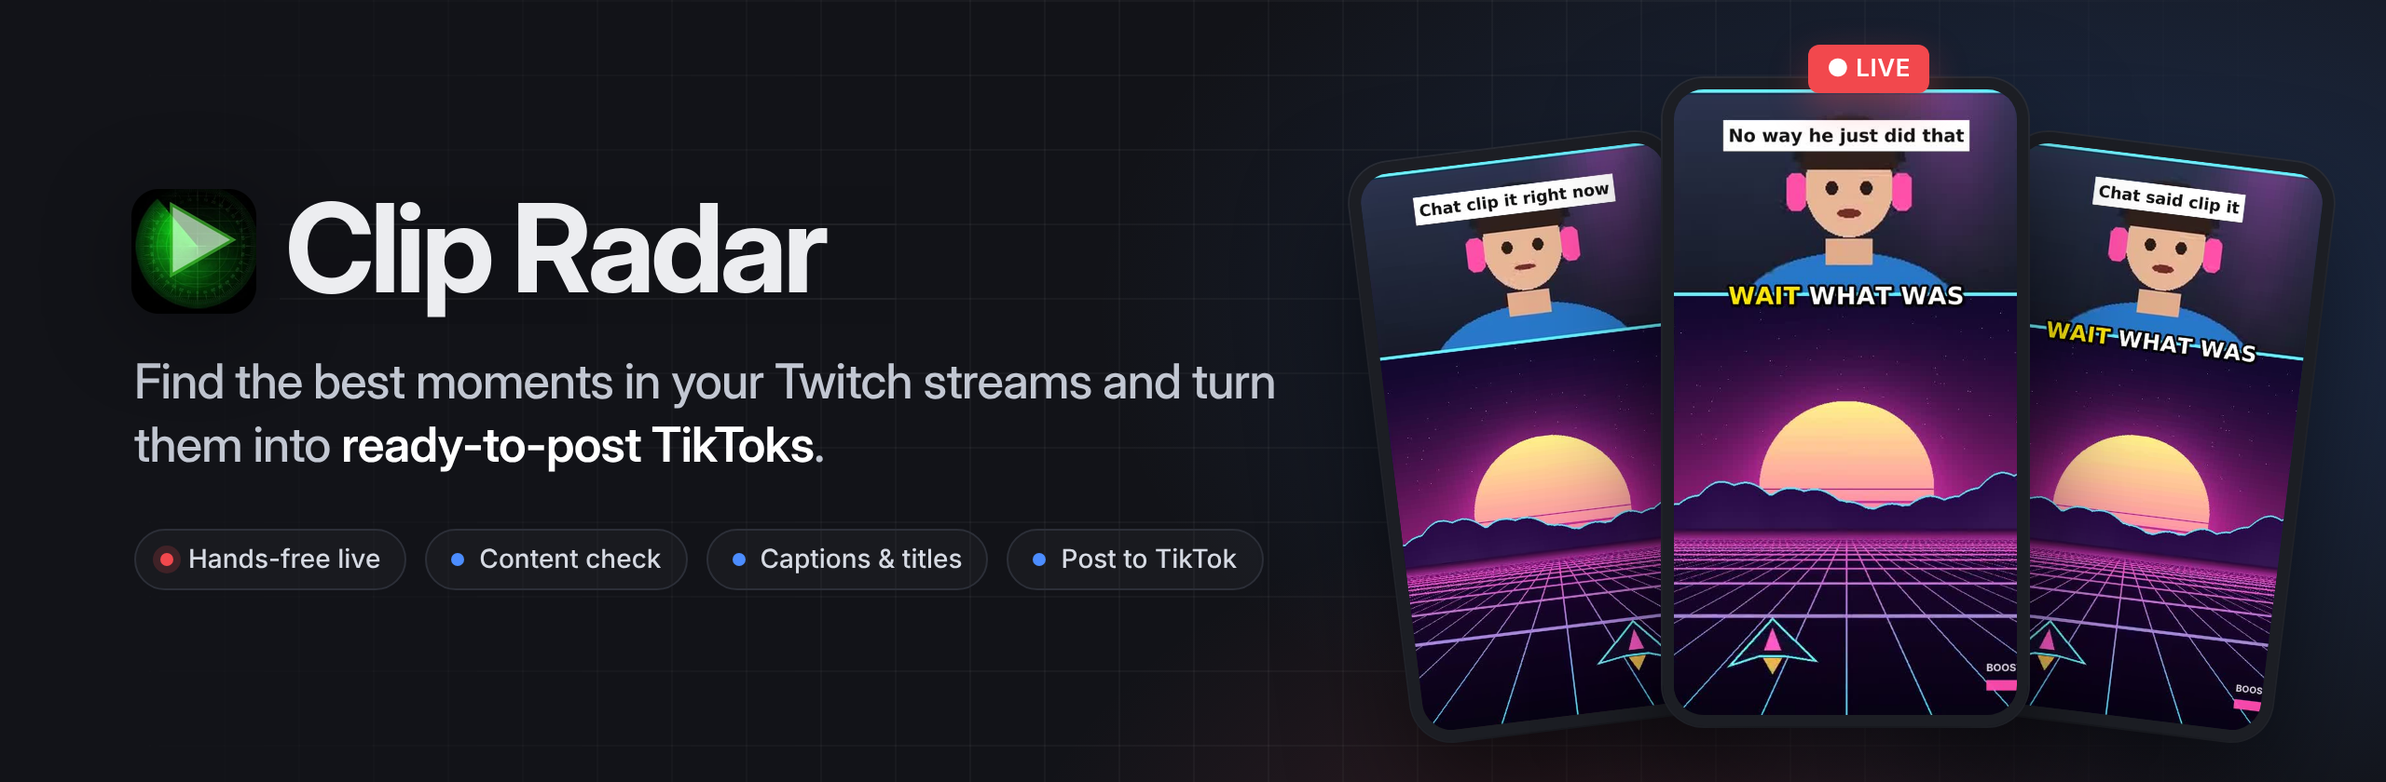
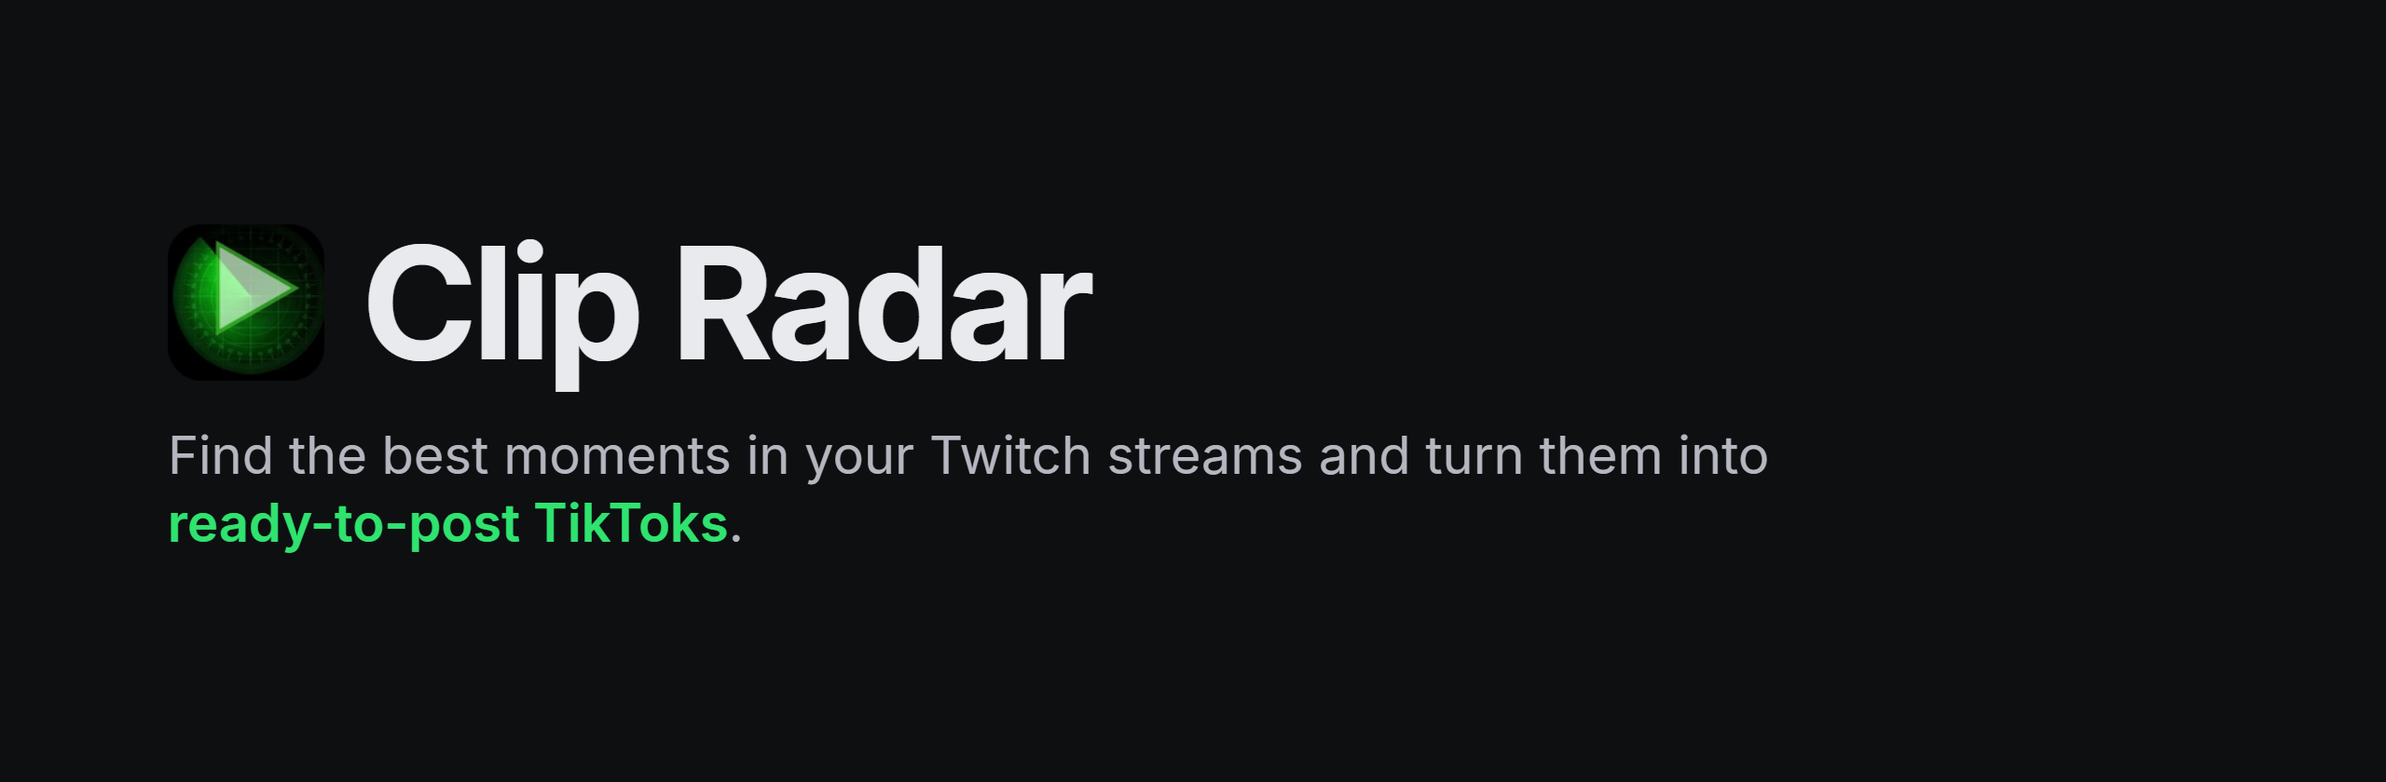
Clip Radar 4.42.1: design audit fixes
An antislop audit (anti-slop/audit-001-2026-11-04.md) of the React UI and README,
with all seven findings fixed:

- Content-check flags say Serious / Medium / Mild instead of showing severity
  only as a coloured stripe (the words Settings already used, now shared).
- Settings group headings and Clip ranking's labels are plain text, not
  spaced-out capitals or capsule chips.
- Small tags use the app's normal corner; only the live indicator and the
  menu counts stay round.
- README: a plain banner (logo, name, tagline on graphite) and a green
  version badge; an unused "preview" tag style removed.

diff --git a/web/src/styles/app.css b/web/src/styles/app.css
@@ -16,7 +16,6 @@ h1 { font-size: 22px; font-weight: 700; letter-spacing: -0.01em; margin: 0; }
 .app { display: grid; height: 100%; grid-template: "top top" auto "rail main" 1fr "bar bar" auto / 160px 1fr; }
 .top { grid-area: top; display: flex; align-items: center; gap: var(--gap); padding: 8px 14px; background: var(--bg0); border-bottom: 1px solid var(--line); }
 .brand { font-weight: 700; }
-.preview-tag { font-size: 11px; color: var(--on-accent); background: var(--accent); border-radius: 999px; padding: 1px 8px; font-weight: 600; }
 .top .btn { margin-left: auto; }
 .rail { grid-area: rail; display: flex; flex-direction: column; gap: 2px; padding: 8px; background: var(--bg0); border-right: 1px solid var(--line); }
 .rail a { color: var(--tx1); text-decoration: none; padding: 7px 10px; border-radius: var(--r); }
@@ -169,7 +168,7 @@ details.adv[open] summary { margin-bottom: 10px; }
 .set-nav { position: sticky; top: 0; display: flex; flex-direction: column; gap: 10px; max-height: calc(100 * var(--vh) - 120px); overflow-y: auto; padding: 0 2px 8px; }
 .set-nav h1 { margin: 0 0 2px; }
 .set-nav-group { display: flex; flex-direction: column; gap: 1px; }
-.set-nav-label, .set-group-label { color: var(--tx2); font-size: 11px; font-weight: 650; text-transform: uppercase; letter-spacing: .06em; }
+.set-nav-label, .set-group-label { color: var(--tx2); font-size: 12px; font-weight: 650; }   /* weight and grey carry the level, not capitals */
 .set-nav-label { padding: 4px 10px 2px; }
 .set-nav a { color: var(--tx1); text-decoration: none; padding: 5px 10px; border-radius: var(--r); border-left: 2px solid transparent; }
 .set-nav a:hover { background: var(--bg3); color: var(--tx0); }
@@ -184,7 +183,7 @@ details.adv[open] summary { margin-bottom: 10px; }
   .set-nav { position: static; max-height: none; overflow: visible; }
   .set-nav-group { flex-direction: row; flex-wrap: wrap; align-items: center; gap: 4px; }
   .set-nav-label { width: 100%; }
-  .set-nav a { border: 1px solid var(--line2); border-radius: 99px; padding: 4px 12px; }
+  .set-nav a { border: 1px solid var(--line2); padding: 4px 12px; }
   .set-nav a.on { border-color: var(--line2); background: none; color: var(--tx1); }   /* the menu scrolls away here: no "you are here" */
 }
 .settings h2 { font-size: 15px; font-weight: 650; margin: 0; }
@@ -212,7 +211,7 @@ details.adv[open] summary { margin-bottom: 10px; }
 .ver-list li { border-top: 1px solid var(--line); padding: 4px 0; }
 .ver-list summary { display: flex; gap: 8px; align-items: center; cursor: pointer; padding: 4px 0; }
 .ver-list li.cur summary b { color: var(--accent); }
-.ver-tag { font-size: 11px; padding: 1px 6px; border-radius: 999px; border: 1px solid var(--line2); color: var(--tx1); }
+.ver-tag { font-size: 11px; padding: 1px 6px; border-radius: 4px; border: 1px solid var(--line2); color: var(--tx1); }
 .ver-tag.cur, .ver-tag.new { border-color: var(--accent); color: var(--accent); }
 .btn.danger { background: transparent; border-color: var(--danger); color: var(--danger); }
 .btn.danger:hover { background: rgba(240, 90, 94, .12); }
@@ -243,7 +242,7 @@ p.notice { margin: 0; }
 .explain { margin-top: 10px; padding: 12px 14px; background: var(--bg1); border-radius: var(--r); display: flex; flex-direction: column; gap: 6px; }
 .explain h4 { margin: 6px 0 0; font-size: 12px; font-weight: 650; color: var(--tx0); display: flex; gap: 6px; align-items: center; }
 .explain ul { margin: 0; padding-left: 18px; color: var(--tx1); font-size: 12px; display: flex; flex-direction: column; gap: 2px; }
-.explain .tag { font-size: 10px; font-weight: 500; text-transform: uppercase; letter-spacing: .04em; color: var(--tx2); border: 1px solid var(--line2); border-radius: 999px; padding: 0 6px; }
+.explain .tag { font-size: 12px; font-weight: 400; color: var(--tx2); }   /* where the list comes from, said quietly after the heading */
 .ex-status { margin: 0; font-weight: 600; }
 .ex-status.tuned { color: var(--accent); }
 
@@ -312,7 +311,7 @@ p.notice { margin: 0; }
 .cp-row { width: 100%; display: flex; align-items: center; gap: 8px; flex-wrap: wrap; padding: 8px 10px; border: 1px solid var(--line); border-radius: var(--r); background: none; color: var(--tx0); text-align: left; }
 .cp-row:hover { background: var(--bg3); }
 .cp-row.on { border-color: var(--accent); }
-.pill { font-size: 11px; font-weight: 600; padding: 1px 7px; border-radius: 99px; border: 1px solid var(--line2); color: var(--tx0); }
+.pill { font-size: 11px; font-weight: 600; padding: 1px 7px; border-radius: 4px; border: 1px solid var(--line2); color: var(--tx0); }
 .cp-edit { display: flex; flex-direction: column; gap: 10px; border-top: 1px solid var(--line); padding-top: 12px; }
 @media (pointer: coarse) { .cp-row { min-height: 44px; } }
 
@@ -350,7 +349,7 @@ p.notice { margin: 0; }
 .rv-row-t.pending { color: var(--tx1); font-style: italic; }
 .rv-row-m { display: flex; flex-wrap: wrap; gap: 0 8px; }
 .rv-flag { display: inline-grid; place-items: center; width: 16px; height: 16px; margin-right: 6px; border-radius: 50%; background: var(--warn); color: #1a1205; font-size: 11px; font-weight: 700; }
-.qpill { padding: 0 6px; border-radius: 99px; border: 1px solid var(--line2); font-variant-numeric: tabular-nums; }
+.qpill { padding: 0 6px; border-radius: 4px; border: 1px solid var(--line2); font-variant-numeric: tabular-nums; }
 .qpill.q3 { border-color: var(--accent); color: var(--accent); }
 .rv-empty, .rv-pick p { margin: 8px 0; }
 .rv-pick { padding: 20px 24px; display: flex; flex-direction: column; gap: 10px; }
@@ -423,9 +422,11 @@ p.notice { margin: 0; }
 .safe.high { color: var(--danger); }
 .safe.medium, .safe.low { color: var(--warn); }
 .cc-flags { list-style: none; margin: 0; padding: 0; display: flex; flex-direction: column; gap: 6px; }
-.cc-flag { display: flex; flex-direction: column; gap: 6px; padding: 8px 10px; border-left: 3px solid var(--line2); background: var(--bg2); border-radius: 4px; }
-.cc-flag.open.sev3 { border-left-color: var(--danger); }
-.cc-flag.open.sev2, .cc-flag.open.sev1 { border-left-color: var(--warn); }
+.cc-flag { display: flex; flex-direction: column; gap: 6px; padding: 8px 10px; border: 1px solid var(--line2); background: var(--bg2); border-radius: 4px; }
+/* severity is written out, so it reads without colour; the colour only backs up the word */
+.cc-sev { font-size: 12px; font-weight: 650; color: var(--tx1); }
+.cc-flag.open .cc-sev.sev3 { color: var(--danger); }
+.cc-flag.open .cc-sev.sev2, .cc-flag.open .cc-sev.sev1 { color: var(--warn); }
 .cc-flag-h { display: flex; flex-wrap: wrap; align-items: baseline; gap: 4px 8px; }
 .cc-text { color: var(--tx0); }
 .cc-prop { display: flex; flex-direction: column; gap: 6px; padding: 8px; border: 1px dashed var(--line2); border-radius: var(--r); }
@@ -435,7 +436,7 @@ p.notice { margin: 0; }
 /* Review: the whole stream (overview, header facts, deep scan, detection settings, title A/B) */
 .rv-facts-head { display: flex; flex-wrap: wrap; align-items: baseline; gap: 2px 12px; }
 .rv-facts-head b { color: var(--tx0); font-weight: 600; }
-.rv-facts-head .tuned { padding: 0 6px; border: 1px solid var(--line2); border-radius: 99px; }
+.rv-facts-head .tuned { padding: 0 6px; border: 1px solid var(--line2); border-radius: 4px; }
 .rv-deep { display: inline-flex; align-items: center; gap: 8px; margin-left: auto; }
 .rv-overview { position: relative; display: flex; flex-direction: column; gap: 4px; padding-top: 4px; border-top: 1px solid var(--line); }
 .rv-ov-ruler { display: flex; justify-content: space-between; gap: 12px; }
@@ -466,7 +467,7 @@ p.notice { margin: 0; }
 }
 .rv-exact { position: absolute; inset: 0; border-radius: var(--r); overflow: hidden; background: #000; box-shadow: 0 0 0 2px var(--accent); }
 .rv-exact video { width: 100%; height: 100%; object-fit: contain; display: block; }
-.rv-exact-close { position: absolute; top: 8px; right: 8px; min-height: 32px; padding: 4px 12px; border-radius: 99px; border: 1px solid var(--line2); background: rgba(14, 15, 17, .85); color: var(--tx0); font-size: 12px; }
+.rv-exact-close { position: absolute; top: 8px; right: 8px; min-height: 32px; padding: 4px 12px; border-radius: var(--r); border: 1px solid var(--line2); background: rgba(14, 15, 17, .85); color: var(--tx0); font-size: 12px; }
 @media (pointer: coarse) { .rv-exact-close { min-height: 44px; } }
 /* Review on a live session */
 .rv-live { display: flex; flex-direction: column; gap: 6px; width: 100%; }

diff --git a/web/src/features/settings/LearningPanel.tsx b/web/src/features/settings/LearningPanel.tsx
@@ -123,22 +123,22 @@ function Explanation({ id, x }: { id: string; x: Explain }) {
   return (
     <div className="explain" id={id} data-testid="lr-explain">
       <p className={`ex-status ${x.status}`}>{x.status_text}</p>
-      <h4>What's stored <span className="tag">facts</span></h4>
+      <h4>What's stored <span className="tag">(facts)</span></h4>
       <ul>{explainFacts(x).map(t => <li key={t}>{t}</li>)}</ul>
       {x.compare.length > 0 && (
         <>
-          <h4>How kept and skipped clips differed <span className="tag">facts</span></h4>
+          <h4>How kept and skipped clips differed <span className="tag">(facts)</span></h4>
           {cmp.length ? <ul>{cmp.map(c => <li key={c.label}>{c.label}: {c.says} ({c.kept} kept vs {c.skipped} skipped)</li>)}</ul>
             : <p className="muted small">No clear difference yet.</p>}
         </>
       )}
       {x.learned.length > 0 && (
         <>
-          <h4>What ranking does with it <span className="tag">learned</span></h4>
+          <h4>What ranking does with it <span className="tag">(learned)</span></h4>
           <ul>{x.learned.map(l => <li key={l.label}>{l.label} moves clips {l.direction === 'up' ? 'up' : 'down'} {l.strength}</li>)}</ul>
         </>
       )}
-      <h4>Rules every clip is scored on <span className="tag">built in</span></h4>
+      <h4>Rules every clip is scored on <span className="tag">(built in)</span></h4>
       <ul>{x.rules.map(r => <li key={r}>{r}</li>)}</ul>
       {x.method && <p className="fine">{x.method}</p>}
     </div>

diff --git a/web/src/features/review/ContentCheck.tsx b/web/src/features/review/ContentCheck.tsx
@@ -1,7 +1,7 @@
 import { useState } from 'react'
 import type { Clip, Safety } from '../../api/schemas'
 import { ago, plural } from '../../format'
-import { FIX_EXPLAIN, FIX_LABEL, FLAG_STATE, fixesOf, flagsOf, isStale, logOf } from './checks'
+import { FIX_EXPLAIN, FIX_LABEL, FLAG_STATE, SEV, fixesOf, flagsOf, isStale, logOf } from './checks'
 import { fmtT } from './captions'
 import { CHECK_LABEL, checkStatus, fmt } from './model'
 
@@ -45,9 +45,9 @@ export function ContentCheck({ clip: c, safety, flaggedTab, proposal, onAct, onP
           {flags.map(f => {
             const state = f.status === 'corrected' ? `Fixed: ${(FIX_LABEL[f.fixed ?? ''] ?? 'fixed').toLowerCase()}` : FLAG_STATE[f.status] ?? ''
             return (
-              <li key={f.fp} className={`cc-flag ${f.status} sev${f.severity ?? 1}`}>
+              <li key={f.fp} className={`cc-flag ${f.status}`}>
                 <div className="cc-flag-h">
-                  <b>{f.label}</b><span className="cc-text">“{f.text}”</span>
+                  <b>{f.label}</b><span className={`cc-sev sev${f.severity ?? 1}`}>{SEV[f.severity ?? 1]}</span><span className="cc-text">“{f.text}”</span>
                   {f.source === 'speech'
                     ? <button className="link tnum" title="Play from here" onClick={() => onSeek(c.start + (f.start ?? 0) - 1)}>{fmtT(Math.max(0, f.start ?? 0))}</button>
                     : <span className="muted">{f.source === 'title' ? 'in the title' : 'in the post caption'}</span>}

diff --git a/web/src/features/review/checks.ts b/web/src/features/review/checks.ts
@@ -21,6 +21,8 @@ export const FIX_EXPLAIN: Record<string, string> = {
   mask_title: 'The flagged words in the title are replaced with stars.',
   mask_post: 'The flagged words in the post caption are replaced with stars.' }
 export const FLAG_STATE: Record<string, string> = { open: '', accepted: 'Left as is', dismissed: 'Dismissed' }
+/** A category's severity in words, the same in Settings › Content check and on each flag in Review. */
+export const SEV: Record<number, string> = { 3: 'Serious', 2: 'Medium', 1: 'Mild' }
 
 export const flagsOf = (c: Clip) => (c.safety?.flags ?? []) as unknown as Flag[]
 export const fixesOf = (c: Clip) => ((c.check?.fixes ?? []) as Fix[])

diff --git a/web/src/features/settings/ContentCheckPanel.tsx b/web/src/features/settings/ContentCheckPanel.tsx
@@ -4,8 +4,8 @@ import { Safety } from '../../api/schemas'
 import { Seg } from '../../components/Seg'
 import { useToast } from '../../components/Toasts'
 import { usePoll } from '../../hooks/usePoll'
+import { SEV } from '../review/checks'
 
-const SEV: Record<number, string> = { 3: 'Serious', 2: 'Medium', 1: 'Mild' }
 const SENS: Array<[string, string]> = [['all', 'Everything'], ['skip_mild', 'Skip mild'], ['serious', 'Only serious']]
 const SENS_HINT: Record<string, string> = {
   all: 'Flags everything it knows, swearing included.',

diff --git a/src/version.py b/src/version.py
@@ -1,1 +1,1 @@
-VERSION = "4.42.0"
+VERSION = "4.42.1"

diff --git a/anti-slop/audit-001-2026-11-04.md b/anti-slop/audit-001-2026-11-04.md
@@ -1,0 +1,61 @@
+# antislop audit 001 (2026-11-04)
+
+Mode: after. Direction: `DESIGN.md` (dark only, one electric green accent, Inter, dials ENERGY 2 / RHYTHM 2 / MOTION 2).
+
+Scope: the React UI (`web/src`), the original page kept at `/legacy/` (`src/ui`), and the README.
+
+Priority comes from the rule's tier: Hard Gate = HIGH, Purpose-Gate = MEDIUM, Quality Lock = LOW.
+Nothing is changed until specific numbers are approved.
+
+## Already clean
+
+These checks found nothing: em dashes in UI text and docs (R-02), buzzwords (R-16), generic CTAs (R-15), icon
+libraries or sparkle icons (R-04), gradients and glow in the app (R-01, R-13), and glassmorphism (R-10). Text
+contrast is measured and recorded in `DESIGN.md` (R-25). Focus rings (R-32) and 44 px touch targets on
+`pointer: coarse` (R-03) are in place, motion respects reduced motion, and the one modal shadow marks
+elevation (R-12).
+
+## Findings
+
+| # | Priority | Rule | Where | Finding | Proposed fix |
+|---|---|---|---|---|---|
+| 1 | MEDIUM | R-07, R-09, R-01, R-29 | `docs/images/banner.png` (README header) | The README banner is the most template-looking part of the project: a graph-paper grid background, a coloured glow in the corners, four capsule chips with dots, and blue dots that aren't in the palette. The app itself uses none of these. | Rebuild the banner from a real screenshot, or as plain type plus the logo on graphite, with green as the only accent. **This is an image asset, so per R-23 it needs your go-ahead and a choice of direction before I make one.** |
+| 2 | MEDIUM | R-06, R-09 | `web/src/styles/app.css` `.explain .tag`; `LearningPanel.tsx` | The "facts / learned / built in" tags in Settings › Clip ranking use the full capsule badge: pill shape, thin border, uppercase and letter-spacing at 10 px. | Sentence case, no tracking, plain muted text in brackets after the heading, so it reads as a label rather than a chip. |
+| 3 | MEDIUM | R-06 | `app.css` `.set-nav-label`, `.set-group-label` | The group headings in the Settings sidebar are uppercase with .06em tracking, the "HOW IT WORKS" label style. | Sentence case at 12 px / 650 in `--tx2`. Weight and colour carry the hierarchy. |
+| 4 | MEDIUM | Part 1 "Colored Left Stripe", WCAG 1.4.1 | `app.css` `.cc-flag`; `ContentCheck.tsx` | Content-check flags show severity only as a 3 px red or amber stripe down the left edge. Without colour vision there is no severity at all. | Write the severity in the flag header ("Serious" for level 3, "Check" for 1 and 2), and drop the stripe in favour of the coloured word. |
+| 5 | LOW | R-11 | `app.css`: `.pill`, `.qpill`, `.ver-tag`, `.tuned`, `.rv-exact-close`, `.set-nav a` on mobile | Eight different small elements are fully pill-shaped (99 px) while buttons and inputs use 6 px, so the pill is the default shape rather than a choice. | Keep the pill only where the shape means something: the live indicator (`.live-tag`) and the count badges in the menu (`.rail .badge`). Everything else uses `--r`, and the "Back to live preview" button becomes a normal `.btn`. |
+| 6 | LOW | R-20, `DESIGN.md` | `README.md` version badge | The version badge is still the old signature yellow (`ffd21f`), which `DESIGN.md` replaced with green. | Change it to `2fe36f`. |
+| 7 | LOW | C-1 | `app.css` `.preview-tag` | A filled green pill style left over from when the React UI was a preview. Nothing uses it, and reusing it would break the accent rule (green only for action, selection and progress). | Delete it. |
+
+## Not findings (reasons written down)
+
+- **Dark only** (R-21): `DESIGN.md` gives the reason (footage reads best on dark, like a video editor). No toggle is needed.
+- **Inter** (R-06): `DESIGN.md` gives the reason (legible numbers and small labels in a dense tool).
+- **Live dot and pill** (`.live-tag`): a real recording status, in the reserved live red. This is a functional badge (R-09).
+- **`.rv-caplines` and `.set-nav a` 2 px left border**: marks the current caption line or settings section. It's a selection state, not decoration.
+- **"Discord ✓"** in Exports: a real sent/not-sent state.
+
+## Follow-up (2026-11-04): all seven fixed, released as 4.42.1
+
+Approved: 1 to 7.
+
+| # | What changed |
+|---|---|
+| 1 | `docs/images/banner.png` is now the real logo, the name and the existing tagline on `--bg0`, with only the last words in the accent. There's no grid, glow, chips or drawn phones. It was rendered from HTML at 2560 × 840, the old banner's size. |
+| 2 | `.explain .tag` is now plain 12 px `--tx2` text in brackets ("(facts)", "(learned)", "(built in)"). The capsule, capitals and tracking are gone. |
+| 3 | `.set-nav-label`, `.set-group-label`: sentence case, 12 px / 650, no tracking. |
+| 4 | Each flag writes its severity next to its name, in the colour it had before. The words are Serious / Medium / Mild, which Settings › Content check already used, so the `SEV` map moved to `review/checks.ts` and both screens share it. The left stripe is replaced by a 1 px border. |
+| 5 | `.pill`, `.qpill`, `.ver-tag`, `.tuned` use 4 px corners, and `.rv-exact-close` and the narrow-window Settings menu use `--r`. Only `.live-tag` and `.rail .badge` stay round. |
+| 6 | The README badge is `2fe36f`. |
+| 7 | `.preview-tag` is deleted. |
+
+### Checked
+
+- `npm run build` (tsc + vite): passes. `npm test`: 166 of 166 pass.
+- `tests/test_web_settings.py`, `tests/test_web_review.py`, `tests/test_web_a11y.py` (the real server in Chromium): all pass, including "every control is 44 px or more on a touch screen", "Review fits a 420 px window" and "no errors in either page".
+- Screenshots of Settings at 1366 px and 390 px: group headings render in sentence case, the narrow menu has square-cornered items, and there's no horizontal overflow or console errors. Settings › Clip ranking › What it learned shows the bracketed labels. A flagged clip in Review shows "Serious" in red next to the flag's name.
+
+### Not in this audit, worth a later pass
+
+- The original page at `/legacy/` (`src/ui/app.css`) has the same patterns: a 3 px green left stripe and an uppercase tag on `.explain`, and 999 px pills on `.chip`, `.det-btn`, `.exact-close`, `.sb-update` and `.cp-row .pill`. It wasn't in the approved list, so it was left as is.
+- The README screenshots (`docs/images/review.png` and the rest) still show VodClipper 2.1 with the old blue accent. They need fresh captures from the current app.

diff --git a/CHANGELOG.md b/CHANGELOG.md
@@ -5,6 +5,20 @@ The format follows [Keep a Changelog](https://keepachangelog.com/en/1.1.0/), and
 
 ## [Unreleased]
 
+## [4.42.1] - 2026-11-04
+
+Small visual fixes from a design audit (`anti-slop/audit-001-2026-11-04.md`): fewer decorative chips, and content-check severity you can read without colour.
+
+### Fixed
+- **A content-check flag's severity was shown only by colour.** A red or amber stripe down its left edge was the only sign of how serious it was. Each flag now says Serious, Medium or Mild, the same words Settings › Content check uses, in that colour.
+- **Settings group headings** (Clips, Posting, Finding clips, App) were small spaced-out capitals. They're now ordinary text, set apart by weight and grey.
+- **Settings › Clip ranking** marked its lists with small capsule chips (FACTS, LEARNED, BUILT IN). They're now plain text in brackets after the heading.
+- **Fully rounded tags everywhere.** The Active campaign tag, clip scores, the version tags in Updates, "Tuned to your picks", the exact preview's close button and the Settings menu on a narrow window now use the app's normal corner. Only the live indicator and the menu's counts stay round.
+- **README:** a plainer banner (the logo and name on graphite, without the grid, glow and chips), and the version badge is green like the app instead of the old yellow.
+
+### Removed
+- An unused style for the old "preview" tag.
+
 ## [4.42.0] - 2026-11-04
 
 Auto-frame is quicker and works with every layout, and titles and captions size themselves to fit.

diff --git a/README.md b/README.md
@@ -3,7 +3,7 @@
 </p>
 
 <p align="center">
-  <a href="https://github.com/allen1versonfr/ClipRadar/releases/latest"><img alt="Version 4.42.0" src="https://img.shields.io/badge/version-4.42.0-ffd21f?style=flat-square"></a>
+  <a href="https://github.com/allen1versonfr/ClipRadar/releases/latest"><img alt="Version 4.42.1" src="https://img.shields.io/badge/version-4.42.1-2fe36f?style=flat-square"></a>
   <a href="https://github.com/allen1versonfr/ClipRadar/actions/workflows/build.yml"><img alt="Build and test" src="https://img.shields.io/github/actions/workflow/status/allen1versonfr/ClipRadar/build.yml?branch=main&style=flat-square&label=build"></a>
   <img alt="Windows 10 and 11" src="https://img.shields.io/badge/platform-Windows%2010%20%7C%2011-1f2329?style=flat-square">
   <img alt="Built with Python" src="https://img.shields.io/badge/python-3.12-1f2329?style=flat-square">
